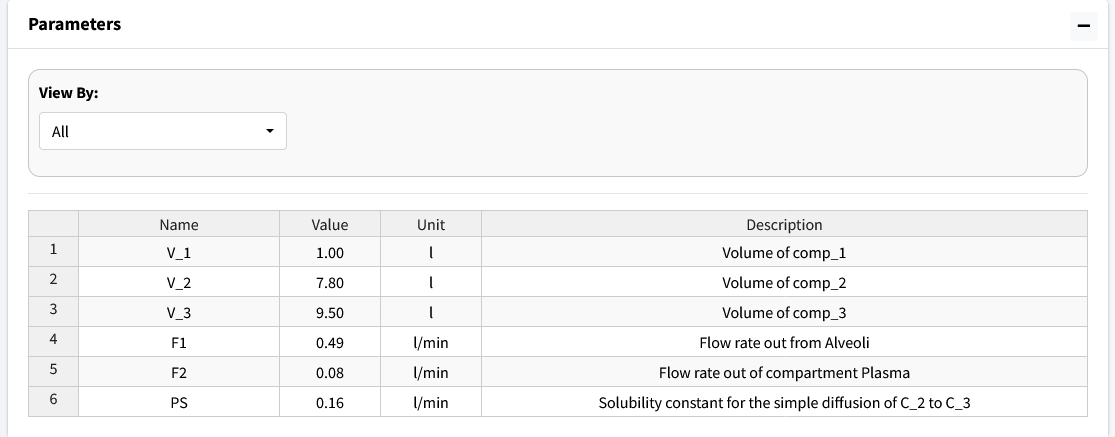
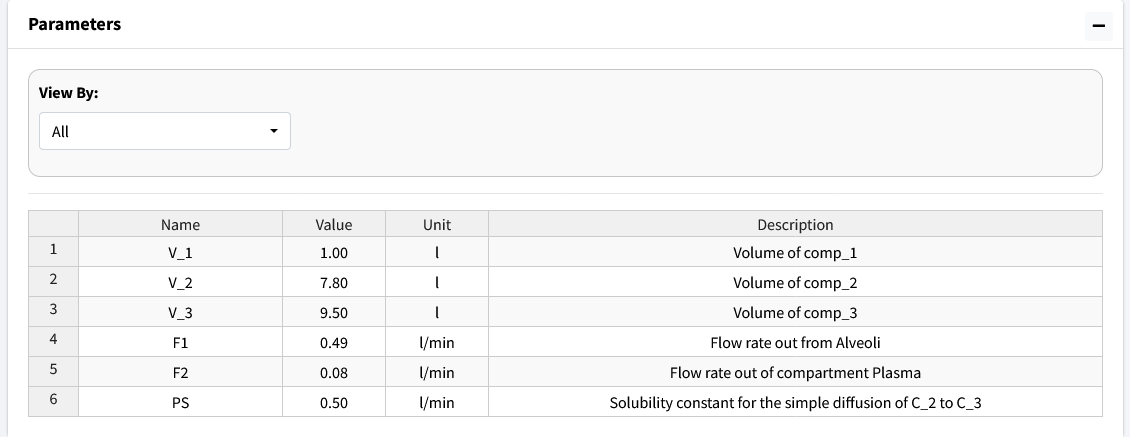
docs: parameter estimation tutorial

diff --git a/docs/pages/tutorial_par_estimation.rst b/docs/pages/tutorial_par_estimation.rst
@@ -5,7 +5,142 @@ Parameter Estimation Tutorial
 This is a basic parameter estimation tutorial.  
 
 We assume you have basic knowledge of creating a model and will skip showing
-every step of that process.
+every step of that process. Please see the 
+:doc:`parameter estimation documentation <backend/parameter_estimation>`
+for details on the solver and options available to use in the solver. 
 
-Please see the parameter estimation documentation for details on the solver 
-and options available to use in the solver. 
+We will construct the following simple diagram: 
+
+.. figure:: tutorial_parameter_estimation/images/0_diagram_and_table.png
+
+In the above diagram, we model the concentration of a drug, Nicotine (**C**), as
+it moves from the alveoli of the lungs, through the plasma of the body, and a 
+compartment summarizing various tissues of the body. We assume Nicotine flows 
+out of the alveoli with flow rate (**F_1**), into the plasma of the body. 
+From there, Nicotine diffuses to various tissues of the body through simple
+diffusion (**PS**) and is also removed from the plasma at a flow rate of 
+**F_2**.  In this model, we are unsure of the value of **PS** and will use
+parameter estimation to estimate the value from experimental data that found
+the concentration of nicotine in the plasma at various timepoints. 
+
+
+Build Model
+--------------------
+
+To being buiding the model, we will add our three compartments with their 
+corresponding volumes:
+
+* Compartment: Alveoli, Volume = 1 L
+* Compartment: Plasma, Volume = 7.8 L
+* Compartment: Various_Tissues, Volume = 9.5 L 
+
+.. figure:: tutorial_parameter_estimation/images/1_comps_named.png
+
+Next, we will add a concentration (**C**) variable for nicotine to each 
+compartment. 
+
+.. figure:: tutorial_parameter_estimation/images/2_species_add_w_con.png
+
+Next, we need to add the compartment input/outputs.  We have three to add:
+
+#. Flow between Alveoli and Plasma
+
+   .. figure:: tutorial_parameter_estimation/images/3_flow_1_add.png
+
+#. Flow out of Plasma
+
+   .. figure:: tutorial_parameter_estimation/images/3_flow_2_add.png
+
+#. Simple diffusion between Plasma and Various_Tissues
+
+   .. figure:: tutorial_parameter_estimation/images/3_flow_PS_add.png
+
+With all our model components constructed, we need to assign parameter values. 
+We do not know the value of PS but we will give the model a reasonable
+starting estimate (0.5 L/min). 
+
+.. figure:: tutorial_parameter_estimation/images/4_parameters.png
+
+For reference, here are the solved differential equations: 
+
+.. figure:: tutorial_parameter_estimation/images/5_diff_eqn.png
+
+Move to the **Execute Model** tab and enter the time for this model: 
+
+* Start Time = 0
+* End Time = 70
+* Time Step = 1
+* Unit = min
+
+.. figure:: tutorial_parameter_estimation/images/6_execute.png
+
+The beginning of the results table should look like this: 
+
+.. figure:: tutorial_parameter_estimation/images/6_execute_table.png
+
+
+Visualize Model
+--------------------
+
+Move to the **Visualization** tab. A starting plot should be generated that 
+looks like: 
+
+.. figure:: tutorial_parameter_estimation/images/7_results_plot.png
+
+We want to examine the the concentration of Nicotine in the plasma (**C_2**)
+Go into the **Variables** dropdown and remove variables **C_1** and **C_3**.
+
+.. figure:: tutorial_parameter_estimation/images/7_results_plot_c2.png
+
+We should import our data for Nicotine in the plasma to overlay with the plot. 
+Scroll below the plot to the box header that is titled **Import Data**.  
+Browse your desktop for the nictoine dataset.  Which can be downloaded from 
+our Github. Be sure to click the **Apply Overlay** checkbox to show the imported
+data. For importing data, the first row of the data is the headers. The first
+column should be time while the remaining columns should be your concentrations
+at those times. The header names have to match the model names for the data to 
+be correctly plotted. 
+
+.. figure:: tutorial_parameter_estimation/images/8_import_data.png
+
+The resulting plot should look like the figure below: 
+
+.. figure:: tutorial_parameter_estimation/images/8_import_data_plot.png
+
+In this overlayed plot, we can see our model has the general shape of our data
+but doesn't quite mimic it well. We will run parameter estimation for **PS** to 
+see if we can find a better fit. 
+
+
+Perform Parameter Estimation
+---------------------------------
+
+Go to the **Modeler's Toolbox** Tab, subtab **Parameter Estimation**. Here, we
+will start by importing our data into this module. 
+
+.. figure:: tutorial_parameter_estimation/images/9_pe_import_data.png
+
+Move to the next box on the page **Select Parameters**. Use the dropdown to 
+select **PS**. 
+
+.. figure:: tutorial_parameter_estimation/images/9_pe_table.png.
+
+There are five columns in the generated table. They are as follows: 
+
+* Parameters - the selected values to estimate.
+* Initial Guess - the starting value to begin parameter estimation at.
+* Lower Bound - the lowest acceptable value this parameter can be.
+* Upper Bound - the highest acceptable value this parameter can be. 
+* Calculated Value - the found value from parameter estimation after calculations.
+
+Values for Lower and Upper bound can be left blank if no bounds want to be used.
+Here we use the following: 
+
+* Initial Guess - 0.50
+* Lower Bound - 0
+* Upper Bound - 1
+
+Press the **Run** button and the program should output a value of approximately
+0.10. 
+
+.. figure:: tutorial_parameter_estimation/images/9_pe_table_results.png

diff --git a/docs/index.rst b/docs/index.rst
@@ -25,6 +25,7 @@ BioModME: Biological Modeling Made Easy
 
    pages/BACKEND_MATH_INDEX
    pages/backend/differential_solvers
+   pages/backend/parameter_estimation
    pages/backend/units
 
 .. toctree::
@@ -33,6 +34,7 @@ BioModME: Biological Modeling Made Easy
 
    pages/tutorial_sc_index
    pages/tutorial_mc_index
+   pages/tutorial_par_estimation
 
 Welcome to BioModME's documentation!
 ------------------------------------

diff --git a/docs/pages/backend/parameter_estimation.rst b/docs/pages/backend/parameter_estimation.rst
@@ -1,0 +1,7 @@
+=====================
+Parameter Estimation 
+=====================
+
+This is the parameter estimation documentation.
+
+Link to :doc:`Parameter Estimation Tutorial <../tutorial_par_estimation>`
